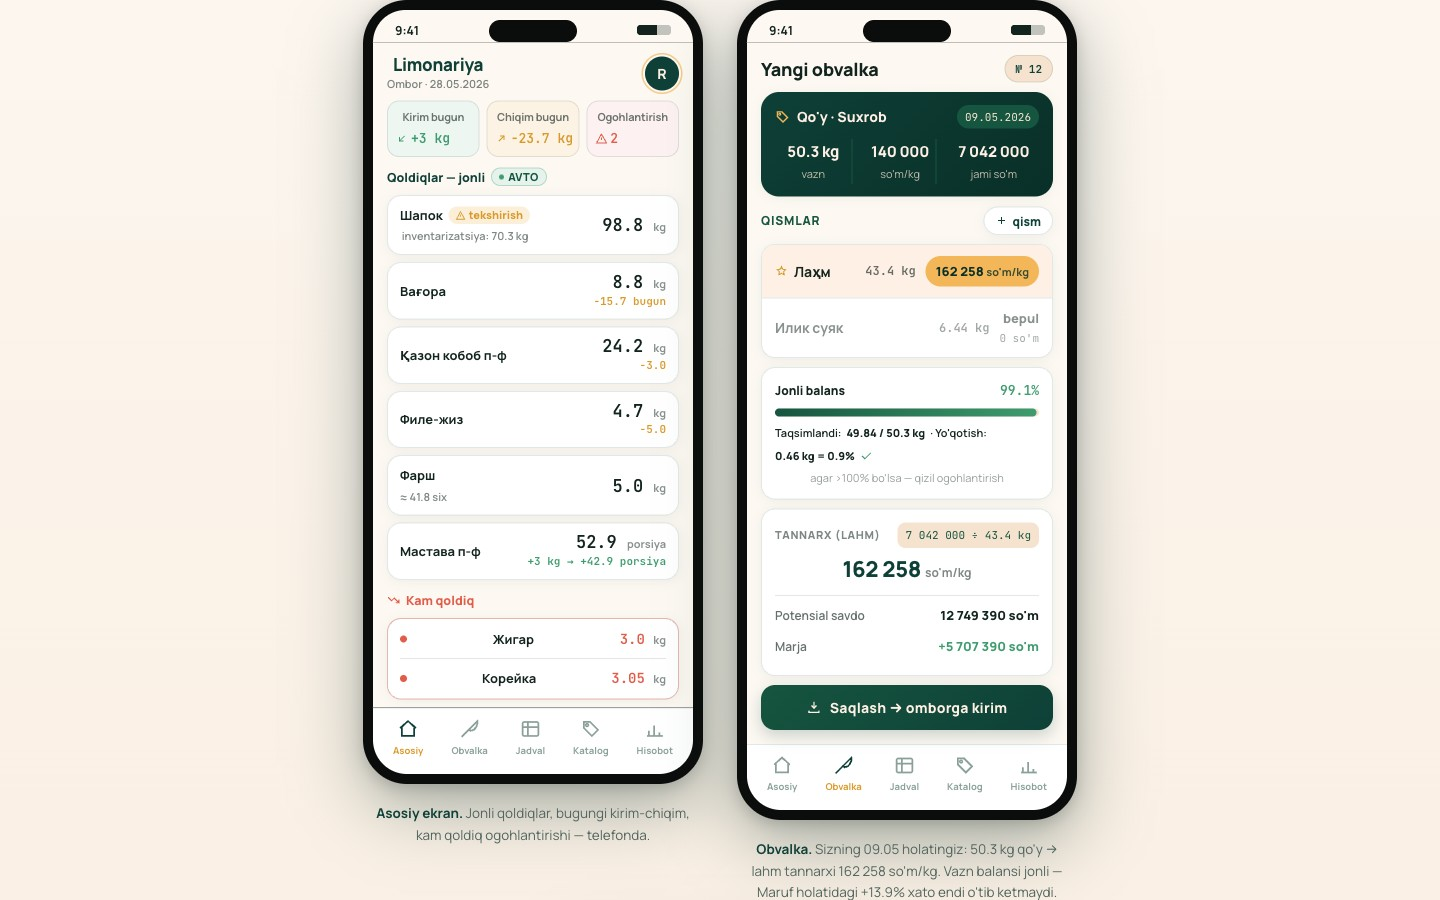
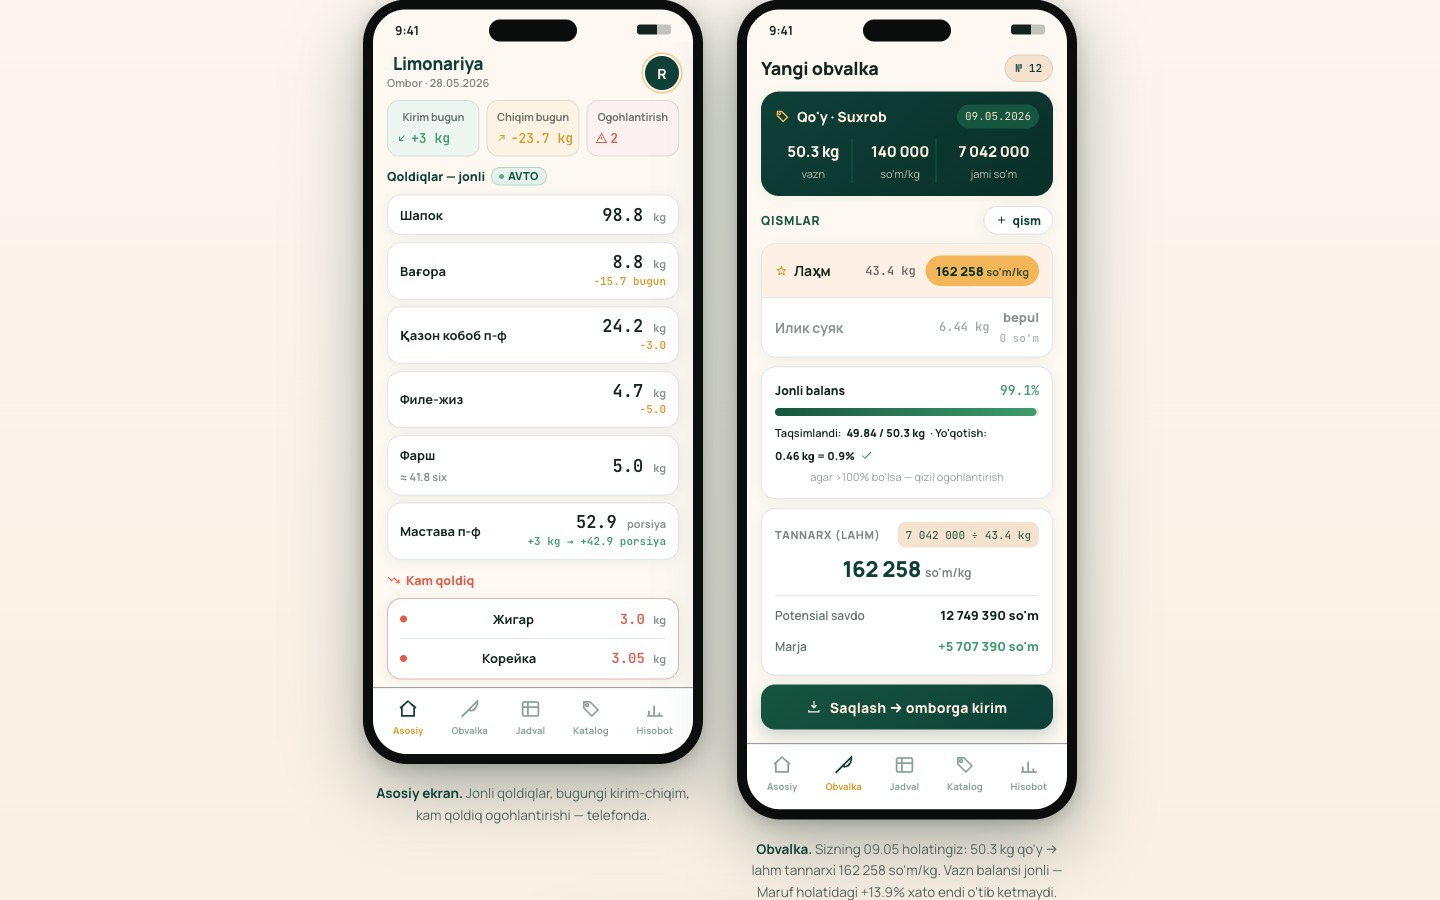
fix: drop Sheet5/Sheet7-based data from presentation (test sheets per owner)
Шапок discrepancy 70.3 vs 98.8 removed — real start balance is 98.8 (Месяц).
Replaced inventory stat with manual-batch-sum evidence, six formula now from
Шашлык sheet. Screenshots regenerated.

diff --git a/docs/prezentatsiya.html b/docs/prezentatsiya.html
@@ -147,7 +147,7 @@ footer .fby{margin-top:22px;font-size:11.5px;letter-spacing:.14em;text-transform
     <div class="stats">
       <div class="stat bad"><div class="num">1 <span style="font-size:22px">kun</span></div><div class="cap uz">jurnal «Месяц» shuncha yashadi: 28.05 boshlandi — va to'xtadi</div><div class="cap ru">столько прожил журнал «Месяц»: начат 28.05 — и заброшен</div></div>
       <div class="stat bad"><div class="num">0</div><div class="cap uz">«Остаток на конец дня» ustuni <b>bir marta ham</b> hisoblanmagan</div><div class="cap ru">колонка «Остаток на конец дня» не сведена <b>ни разу</b></div></div>
-      <div class="stat bad"><div class="num">28.5 <span style="font-size:22px">kg</span></div><div class="cap uz">Шапок bo'yicha ikki varaq orasidagi farq: 70.3 va 98.8 — hech kim sezmagan</div><div class="cap ru">расхождение по Шапок между листами: 70.3 против 98.8 — никто не заметил</div></div>
+      <div class="stat bad"><div class="num">7</div><div class="cap uz">ta partiya qo'lda qo'shilgan: Шапок = 48+6.1+4.9+1.3+19+6.5+13 — har safar shunday</div><div class="cap ru">партий сложено вручную: Шапок = 48+6.1+4.9+1.3+19+6.5+13 — и так каждый раз</div></div>
       <div class="stat bad"><div class="num">+13.9%</div><div class="cap uz">obvalkada vazn balansi xatosi: 85 kg tushadan 96.8 kg «chiqqan»</div><div class="cap ru">ошибка баланса веса в обвалке: из туши 85 кг «вышло» 96.8 кг</div></div>
     </div>
     <div class="verdict">
@@ -263,8 +263,7 @@ footer .fby{margin-top:22px;font-size:11.5px;letter-spacing:.14em;text-transform
       <div class="list">
         <div class="card">
           <div class="c-l">
-            <div class="c-n">Шапок <i class="chip"><svg viewBox="0 0 24 24" fill="none" stroke="currentColor" stroke-width="2"><path d="M12 3l10 18H2L12 3z"/><path d="M12 10v5"/><path d="M12 18h.01"/></svg>tekshirish</i></div>
-            <div class="c-sub">inventarizatsiya: 70.3 kg</div>
+            <div class="c-n">Шапок</div>
           </div>
           <div class="c-r"><div class="c-v">98.8 <em>kg</em></div></div>
         </div>
@@ -709,8 +708,8 @@ footer .fby{margin-top:22px;font-size:11.5px;letter-spacing:.14em;text-transform
     <div class="ftable">
       <div class="frow"><code>=F4/B4</code><span class="arr">→</span><div class="feat"><span class="uz">Tannarx avtomatik</span><span class="ru">Себестоимость автоматически</span><small class="uz">tusha narxi ÷ lahm vazni — suyak bepul, hammasi go'shtga</small><small class="ru">цена туши ÷ вес мякоти — кости бесплатно, всё на мясо</small></div></div>
       <div class="frow"><code>=2.7+8*1.13</code><span class="arr">→</span><div class="feat"><span class="uz">Marinad konvertori</span><span class="ru">Конвертер маринада</span><small class="uz">xom → marinadlangan: ×1.17 farsh, ×1.13 kuskovoy, ×1.05 koreyka</small><small class="ru">сырое → маринованное: ×1.17 фарш, ×1.13 кусковой, ×1.05 корейка</small></div></div>
-      <div class="frow"><code>=8.2+6+10+3</code><span class="arr">→</span><div class="feat"><span class="uz">Inventarizatsiya ekrani</span><span class="ru">Экран инвентаризации</span><small class="uz">qozonlar bo'yicha tortishlar yig'indisi — 70.3 va 98.8 endi farq qilmaydi</small><small class="ru">сумма взвешиваний по ёмкостям — расхождений 70.3 vs 98.8 больше не будет</small></div></div>
-      <div class="frow"><code>=E4*1.17/0.14</code><span class="arr">→</span><div class="feat"><span class="uz">Six kalkulyatori</span><span class="ru">Калькулятор сихов</span><small class="uz">kg → shampur soni: 5 kg farsh = 41.8 six (140 g dan)</small><small class="ru">кг → количество шампуров: 5 кг фарша = 41.8 сихов (по 140 г)</small></div></div>
+      <div class="frow"><code>=8.2+6+10+3</code><span class="arr">→</span><div class="feat"><span class="uz">Avtomatik kirim (partiyalar)</span><span class="ru">Автоматический приход (партии)</span><small class="uz">obvalkadan har bir partiya o'zi qo'shiladi — qo'lda yig'ish tugadi</small><small class="ru">каждая партия из обвалки приходуется сама — ручное сложение в прошлом</small></div></div>
+      <div class="frow"><code>=C3/E3</code><span class="arr">→</span><div class="feat"><span class="uz">Six kalkulyatori</span><span class="ru">Калькулятор сихов</span><small class="uz">kg → shampur soni: 5 kg farsh = 41.8 six (140 g dan)</small><small class="ru">кг → количество шампуров: 5 кг фарша = 41.8 сихов (по 140 г)</small></div></div>
       <div class="frow"><code class="uz">«Буглама — от Казон кабоб»</code><code class="ru">«Буглама — от Казон кабоб»</code><span class="arr">→</span><div class="feat"><span class="uz">Tex-kartalar va hosila taomlar</span><span class="ru">Тех-карты и производные блюда</span><small class="uz">taom sotildi → ingredientlar o'zi chiqdi (Шапок retsepti, 5 ta salat tayyor)</small><small class="ru">блюдо продано → ингредиенты списались сами (рецепт Шапок, 5 салатов уже есть)</small></div></div>
     </div>
     <p class="punch uz">«Шапок: 17.5 kg × 9.23 = 161.5 porsiya × 22 000 = 3 553 550 so'm» — bu sizning hisobingiz. Endi u avtomatik.</p>
@@ -741,7 +740,7 @@ footer .fby{margin-top:22px;font-size:11.5px;letter-spacing:.14em;text-transform
     <span class="eyebrow uz">Sizdan nima kerak</span><span class="eyebrow ru">Что нужно от вас</span>
     <h2 class="uz">Atigi uchta narsa</h2><h2 class="ru">Всего три вещи</h2>
     <ul>
-      <li><svg viewBox="0 0 24 24" fill="none" stroke="currentColor" stroke-width="2.4" width="22" height="22"><path d="M20 6L9 17l-5-5"/></svg><div><span class="uz"><b>30 daqiqa suhbat</b> — bir nechta aniqlik: Шапок 70.3 yoki 98.8? «Сол 5г» — soya yoki tuz? Salat nomlari to'g'rimi?</span><span class="ru"><b>30 минут разговора</b> — несколько уточнений: Шапок 70.3 или 98.8? «Сол 5г» — соя или соль? Названия салатов верны?</span></div></li>
+      <li><svg viewBox="0 0 24 24" fill="none" stroke="currentColor" stroke-width="2.4" width="22" height="22"><path d="M20 6L9 17l-5-5"/></svg><div><span class="uz"><b>30 daqiqa suhbat</b> — bir nechta aniqlik: «Сол 5г» — soya yoki tuz? Salat nomlari to'g'rimi? Six og'irliklari o'zgarmadimi?</span><span class="ru"><b>30 минут разговора</b> — несколько уточнений: «Сол 5г» — соя или соль? Названия салатов верны? Граммовки сихов не менялись?</span></div></li>
       <li><svg viewBox="0 0 24 24" fill="none" stroke="currentColor" stroke-width="2.4" width="22" height="22"><path d="M20 6L9 17l-5-5"/></svg><div><span class="uz"><b>Daftardagi qolgan tex-kartalar</b> — suratga olib yuborsangiz kifoya, biz o'zimiz kiritamiz.</span><span class="ru"><b>Остальные тех-карты из тетради</b> — достаточно сфотографировать и прислать, занесём сами.</span></div></li>
       <li><svg viewBox="0 0 24 24" fill="none" stroke="currentColor" stroke-width="2.4" width="22" height="22"><path d="M20 6L9 17l-5-5"/></svg><div><span class="uz"><b>1–2 kishi</b> — kim ma'lumot kiritadi (omborchi, menejer). Telefon kifoya.</span><span class="ru"><b>1–2 человека</b> — кто будет заносить данные (кладовщик, менеджер). Телефона достаточно.</span></div></li>
     </ul>

diff --git a/docs/prezentatsiya_skeleton.html b/docs/prezentatsiya_skeleton.html
@@ -147,7 +147,7 @@ footer .fby{margin-top:22px;font-size:11.5px;letter-spacing:.14em;text-transform
     <div class="stats">
       <div class="stat bad"><div class="num">1 <span style="font-size:22px">kun</span></div><div class="cap uz">jurnal «Месяц» shuncha yashadi: 28.05 boshlandi — va to'xtadi</div><div class="cap ru">столько прожил журнал «Месяц»: начат 28.05 — и заброшен</div></div>
       <div class="stat bad"><div class="num">0</div><div class="cap uz">«Остаток на конец дня» ustuni <b>bir marta ham</b> hisoblanmagan</div><div class="cap ru">колонка «Остаток на конец дня» не сведена <b>ни разу</b></div></div>
-      <div class="stat bad"><div class="num">28.5 <span style="font-size:22px">kg</span></div><div class="cap uz">Шапок bo'yicha ikki varaq orasidagi farq: 70.3 va 98.8 — hech kim sezmagan</div><div class="cap ru">расхождение по Шапок между листами: 70.3 против 98.8 — никто не заметил</div></div>
+      <div class="stat bad"><div class="num">7</div><div class="cap uz">ta partiya qo'lda qo'shilgan: Шапок = 48+6.1+4.9+1.3+19+6.5+13 — har safar shunday</div><div class="cap ru">партий сложено вручную: Шапок = 48+6.1+4.9+1.3+19+6.5+13 — и так каждый раз</div></div>
       <div class="stat bad"><div class="num">+13.9%</div><div class="cap uz">obvalkada vazn balansi xatosi: 85 kg tushadan 96.8 kg «chiqqan»</div><div class="cap ru">ошибка баланса веса в обвалке: из туши 85 кг «вышло» 96.8 кг</div></div>
     </div>
     <div class="verdict">
@@ -223,8 +223,8 @@ footer .fby{margin-top:22px;font-size:11.5px;letter-spacing:.14em;text-transform
     <div class="ftable">
       <div class="frow"><code>=F4/B4</code><span class="arr">→</span><div class="feat"><span class="uz">Tannarx avtomatik</span><span class="ru">Себестоимость автоматически</span><small class="uz">tusha narxi ÷ lahm vazni — suyak bepul, hammasi go'shtga</small><small class="ru">цена туши ÷ вес мякоти — кости бесплатно, всё на мясо</small></div></div>
       <div class="frow"><code>=2.7+8*1.13</code><span class="arr">→</span><div class="feat"><span class="uz">Marinad konvertori</span><span class="ru">Конвертер маринада</span><small class="uz">xom → marinadlangan: ×1.17 farsh, ×1.13 kuskovoy, ×1.05 koreyka</small><small class="ru">сырое → маринованное: ×1.17 фарш, ×1.13 кусковой, ×1.05 корейка</small></div></div>
-      <div class="frow"><code>=8.2+6+10+3</code><span class="arr">→</span><div class="feat"><span class="uz">Inventarizatsiya ekrani</span><span class="ru">Экран инвентаризации</span><small class="uz">qozonlar bo'yicha tortishlar yig'indisi — 70.3 va 98.8 endi farq qilmaydi</small><small class="ru">сумма взвешиваний по ёмкостям — расхождений 70.3 vs 98.8 больше не будет</small></div></div>
-      <div class="frow"><code>=E4*1.17/0.14</code><span class="arr">→</span><div class="feat"><span class="uz">Six kalkulyatori</span><span class="ru">Калькулятор сихов</span><small class="uz">kg → shampur soni: 5 kg farsh = 41.8 six (140 g dan)</small><small class="ru">кг → количество шампуров: 5 кг фарша = 41.8 сихов (по 140 г)</small></div></div>
+      <div class="frow"><code>=8.2+6+10+3</code><span class="arr">→</span><div class="feat"><span class="uz">Avtomatik kirim (partiyalar)</span><span class="ru">Автоматический приход (партии)</span><small class="uz">obvalkadan har bir partiya o'zi qo'shiladi — qo'lda yig'ish tugadi</small><small class="ru">каждая партия из обвалки приходуется сама — ручное сложение в прошлом</small></div></div>
+      <div class="frow"><code>=C3/E3</code><span class="arr">→</span><div class="feat"><span class="uz">Six kalkulyatori</span><span class="ru">Калькулятор сихов</span><small class="uz">kg → shampur soni: 5 kg farsh = 41.8 six (140 g dan)</small><small class="ru">кг → количество шампуров: 5 кг фарша = 41.8 сихов (по 140 г)</small></div></div>
       <div class="frow"><code class="uz">«Буглама — от Казон кабоб»</code><code class="ru">«Буглама — от Казон кабоб»</code><span class="arr">→</span><div class="feat"><span class="uz">Tex-kartalar va hosila taomlar</span><span class="ru">Тех-карты и производные блюда</span><small class="uz">taom sotildi → ingredientlar o'zi chiqdi (Шапок retsepti, 5 ta salat tayyor)</small><small class="ru">блюдо продано → ингредиенты списались сами (рецепт Шапок, 5 салатов уже есть)</small></div></div>
     </div>
     <p class="punch uz">«Шапок: 17.5 kg × 9.23 = 161.5 porsiya × 22 000 = 3 553 550 so'm» — bu sizning hisobingiz. Endi u avtomatik.</p>
@@ -255,7 +255,7 @@ footer .fby{margin-top:22px;font-size:11.5px;letter-spacing:.14em;text-transform
     <span class="eyebrow uz">Sizdan nima kerak</span><span class="eyebrow ru">Что нужно от вас</span>
     <h2 class="uz">Atigi uchta narsa</h2><h2 class="ru">Всего три вещи</h2>
     <ul>
-      <li><svg viewBox="0 0 24 24" fill="none" stroke="currentColor" stroke-width="2.4" width="22" height="22"><path d="M20 6L9 17l-5-5"/></svg><div><span class="uz"><b>30 daqiqa suhbat</b> — bir nechta aniqlik: Шапок 70.3 yoki 98.8? «Сол 5г» — soya yoki tuz? Salat nomlari to'g'rimi?</span><span class="ru"><b>30 минут разговора</b> — несколько уточнений: Шапок 70.3 или 98.8? «Сол 5г» — соя или соль? Названия салатов верны?</span></div></li>
+      <li><svg viewBox="0 0 24 24" fill="none" stroke="currentColor" stroke-width="2.4" width="22" height="22"><path d="M20 6L9 17l-5-5"/></svg><div><span class="uz"><b>30 daqiqa suhbat</b> — bir nechta aniqlik: «Сол 5г» — soya yoki tuz? Salat nomlari to'g'rimi? Six og'irliklari o'zgarmadimi?</span><span class="ru"><b>30 минут разговора</b> — несколько уточнений: «Сол 5г» — соя или соль? Названия салатов верны? Граммовки сихов не менялись?</span></div></li>
       <li><svg viewBox="0 0 24 24" fill="none" stroke="currentColor" stroke-width="2.4" width="22" height="22"><path d="M20 6L9 17l-5-5"/></svg><div><span class="uz"><b>Daftardagi qolgan tex-kartalar</b> — suratga olib yuborsangiz kifoya, biz o'zimiz kiritamiz.</span><span class="ru"><b>Остальные тех-карты из тетради</b> — достаточно сфотографировать и прислать, занесём сами.</span></div></li>
       <li><svg viewBox="0 0 24 24" fill="none" stroke="currentColor" stroke-width="2.4" width="22" height="22"><path d="M20 6L9 17l-5-5"/></svg><div><span class="uz"><b>1–2 kishi</b> — kim ma'lumot kiritadi (omborchi, menejer). Telefon kifoya.</span><span class="ru"><b>1–2 человека</b> — кто будет заносить данные (кладовщик, менеджер). Телефона достаточно.</span></div></li>
     </ul>